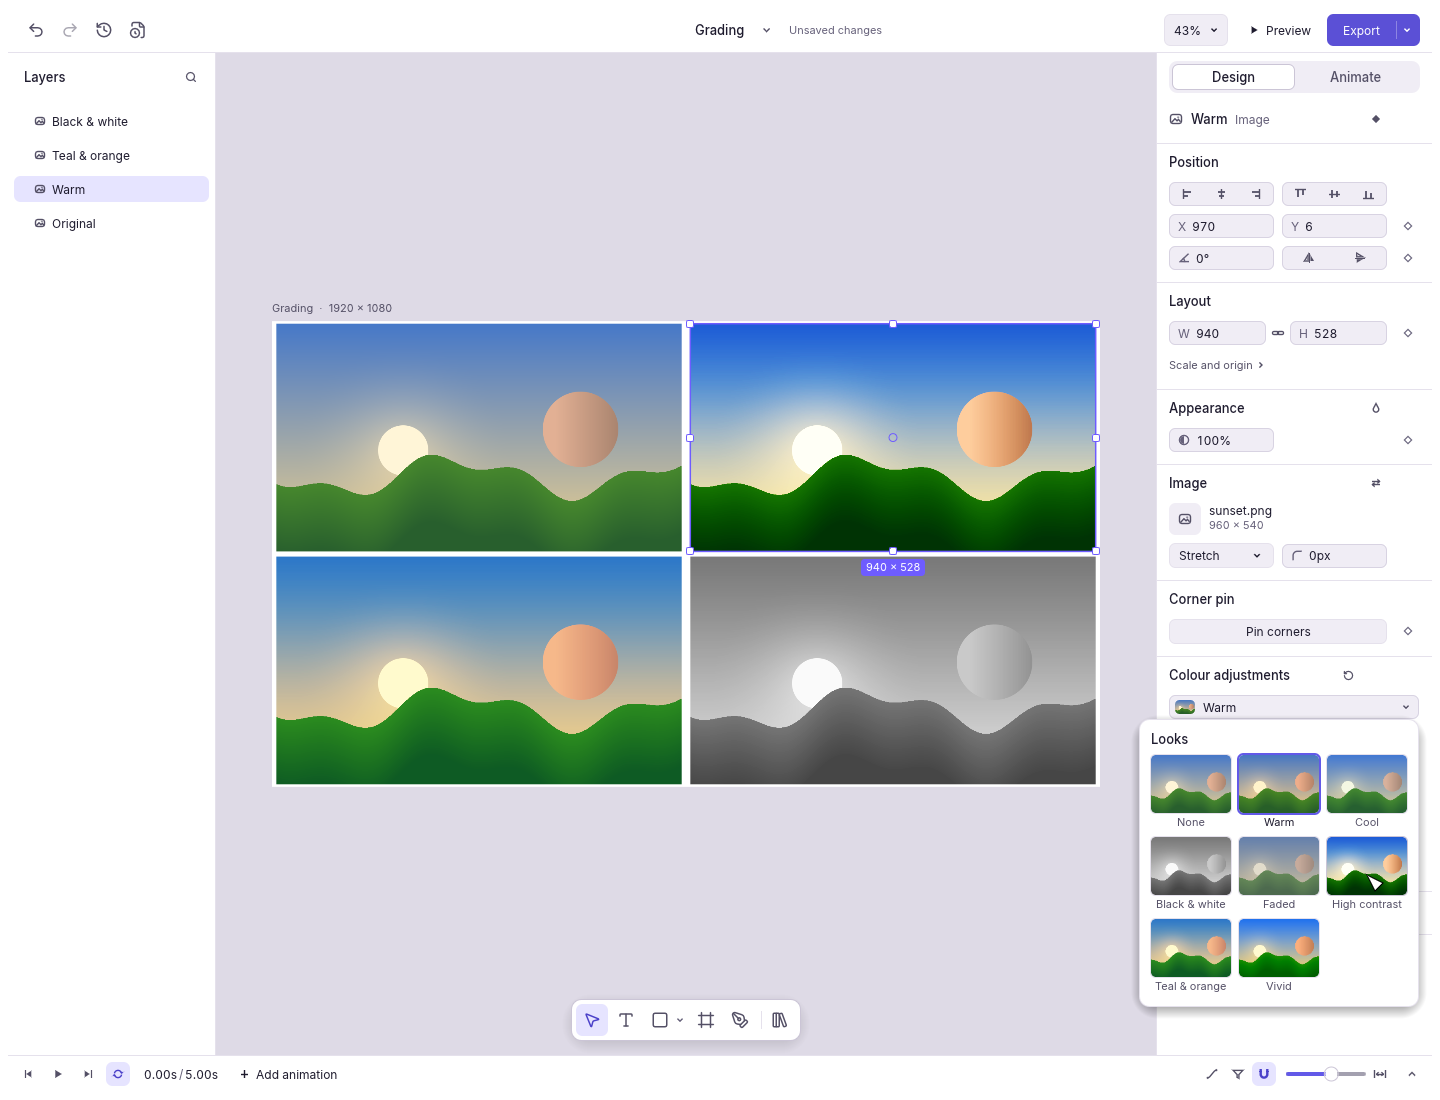
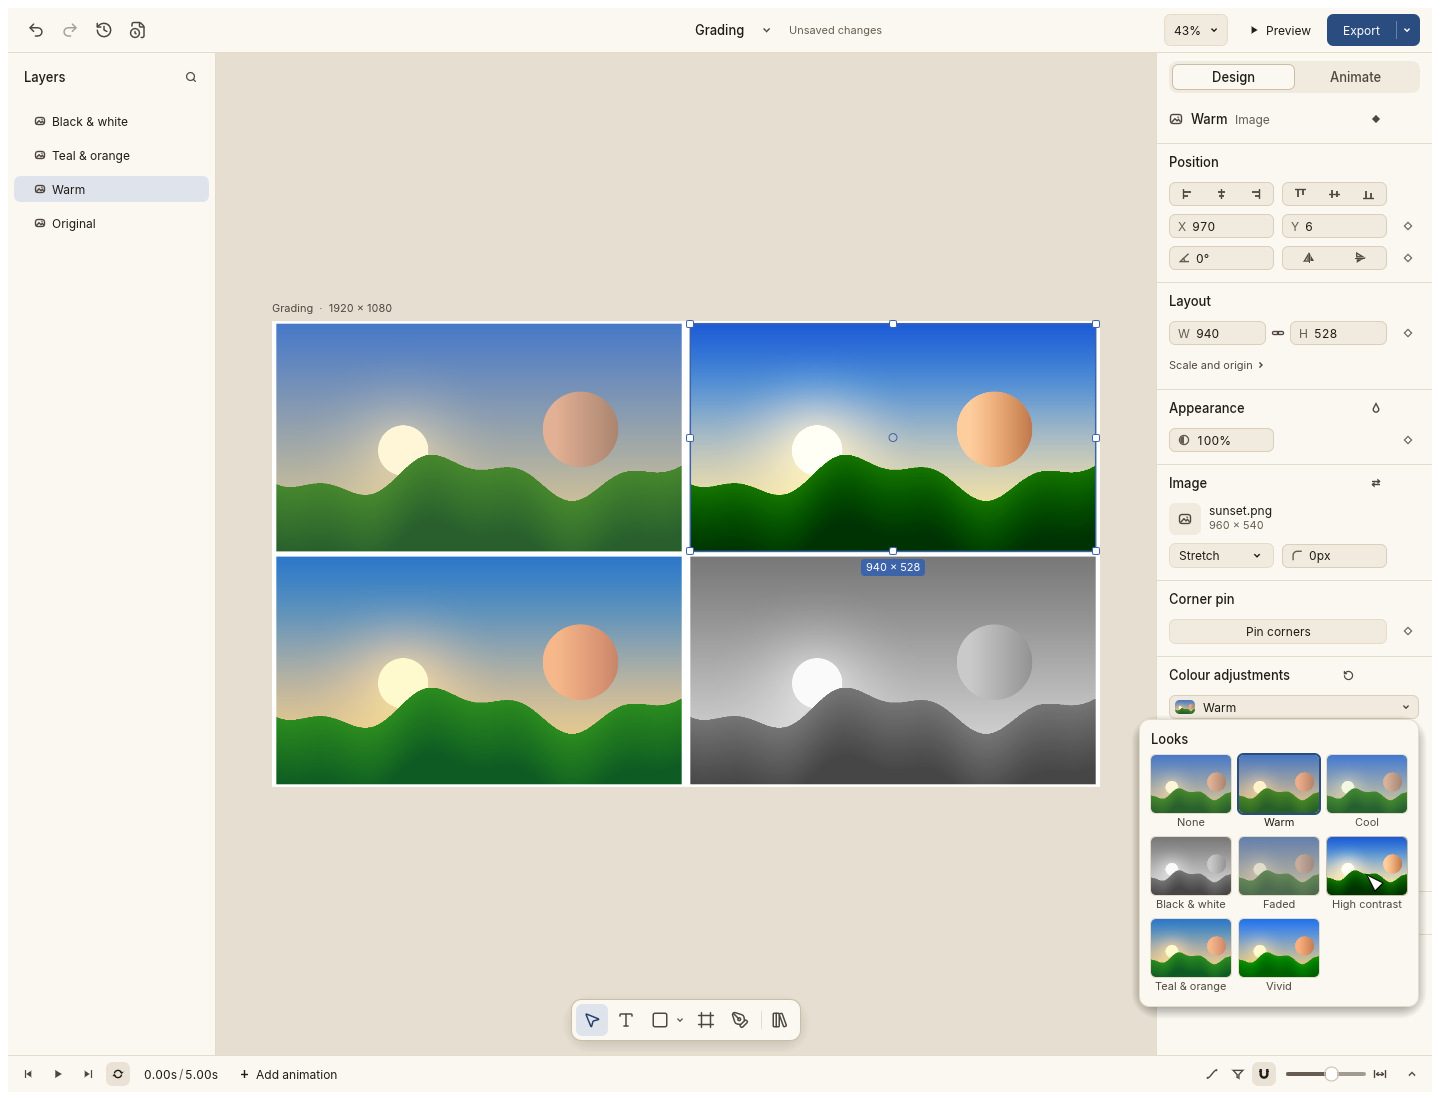
Screenshots: the 0.9.3 app in the Washi theme, reframed Animate and Type crops
Claude-Session: https://claude.ai/code/session_01JCPfpm2a8BnAonXMXPfX45

diff --git a/README.md b/README.md
@@ -142,29 +142,34 @@ so commit the originals and don't resize them by hand.
 
 To update one, replace the PNG with a new light-mode screenshot under the
 same name (or add a file and import it). The current ones were taken on
-4 November 2026 from the app's screenshot tests, run from the app repo with
-`MS_UI_LIGHT=1 MS_UI_SNAPSHOTS=<dir>`:
+4 November 2026 (app main after task 068, the 0.9.3 look) from the app's
+screenshot tests in the Washi theme, which matches the site's paper and
+indigo. Run from the app repo, after any gate there has finished:
 
 ```sh
-MS_UI_LIGHT=1 MS_UI_SNAPSHOTS=$PWD/target/shots/site-2026-11-04 target/emaki-cargo.sh \
+MS_UI_THEME=washi MS_UI_LIGHT=1 MS_UI_SNAPSHOTS=$PWD/target/shots/site-2026-11-04-washi target/emaki-cargo.sh \
   test -p motion-ui --test ui_snapshots -- editor_screenshots keyframes_screenshot \
   effects_media_and_motion_path_screenshots text_on_a_path_and_variable_weight_screenshot \
   colour_section_screenshots
-XDG_DATA_HOME=$PWD/target/gate-xdg MS_UI_LIGHT=1 MS_UI_SNAPSHOTS=$PWD/target/shots/site-2026-11-04/app \
+XDG_DATA_HOME=$PWD/target/gate-xdg MS_UI_THEME=washi MS_UI_LIGHT=1 \
+  MS_UI_SNAPSHOTS=$PWD/target/shots/site-2026-11-04-washi/app \
   target/emaki-cargo.sh test -p motion-app -- mockup_screenshots home_templates_screenshot app_screenshots
 ```
 
-| File | Source (in `target/shots/site-2026-11-04/`) |
-| --- | --- |
-| `hero-editor.png` | `10-curved-motion-path.png` |
-| `artboards.png` | `00-all-artboards.png` |
-| `graph-editor.png` | `25-graph-editor.png` |
-| `text-path.png` | `40-text-on-a-path.png` |
-| `colour.png` | `82-colour-look-popover.png` |
-| `mockups.png` | `app/mockups-07-in-sync.png` |
-| `templates.png` | `app/13c-home-templates.png` |
-| `export.png` | `app/27-export.png` |
-| `signage-tv.png` | `app/mockups-04-tv.png` |
+| File | Source (in `target/shots/site-2026-11-04-washi/`) | Used on |
+| --- | --- | --- |
+| `mockups.png` | `app/mockups-07-in-sync.png` | Home (the pinned editor, and a full-size crop of its canvas on phones), Use cases |
+| `graph-editor.png` | `25-graph-editor.png` | Home, Animate (cropped to the graph editor) |
+| `text-path.png` | `40-text-on-a-path.png` | Home, Type (cropped to the ring of text) |
+| `colour.png` | `82-colour-look-popover.png` | Home, Colour |
+| `hero-editor.png` | `10-curved-motion-path.png` | not used |
+| `artboards.png` | `00-all-artboards.png` | not used |
+| `templates.png` | `app/13c-home-templates.png` | not used (shows Kinetic type's "MAKE IT MOVE") |
+| `export.png` | `app/27-export.png` | not used |
+| `signage-tv.png` | `app/mockups-04-tv.png` | not used |
+
+The crops are set in `src/pages/index.astro` (`<Crop x y zoom ratio>`), so
+check them after a new screenshot moves things around.
 
 Remember to update the `alt` text where a picture is used when it changes.
 
